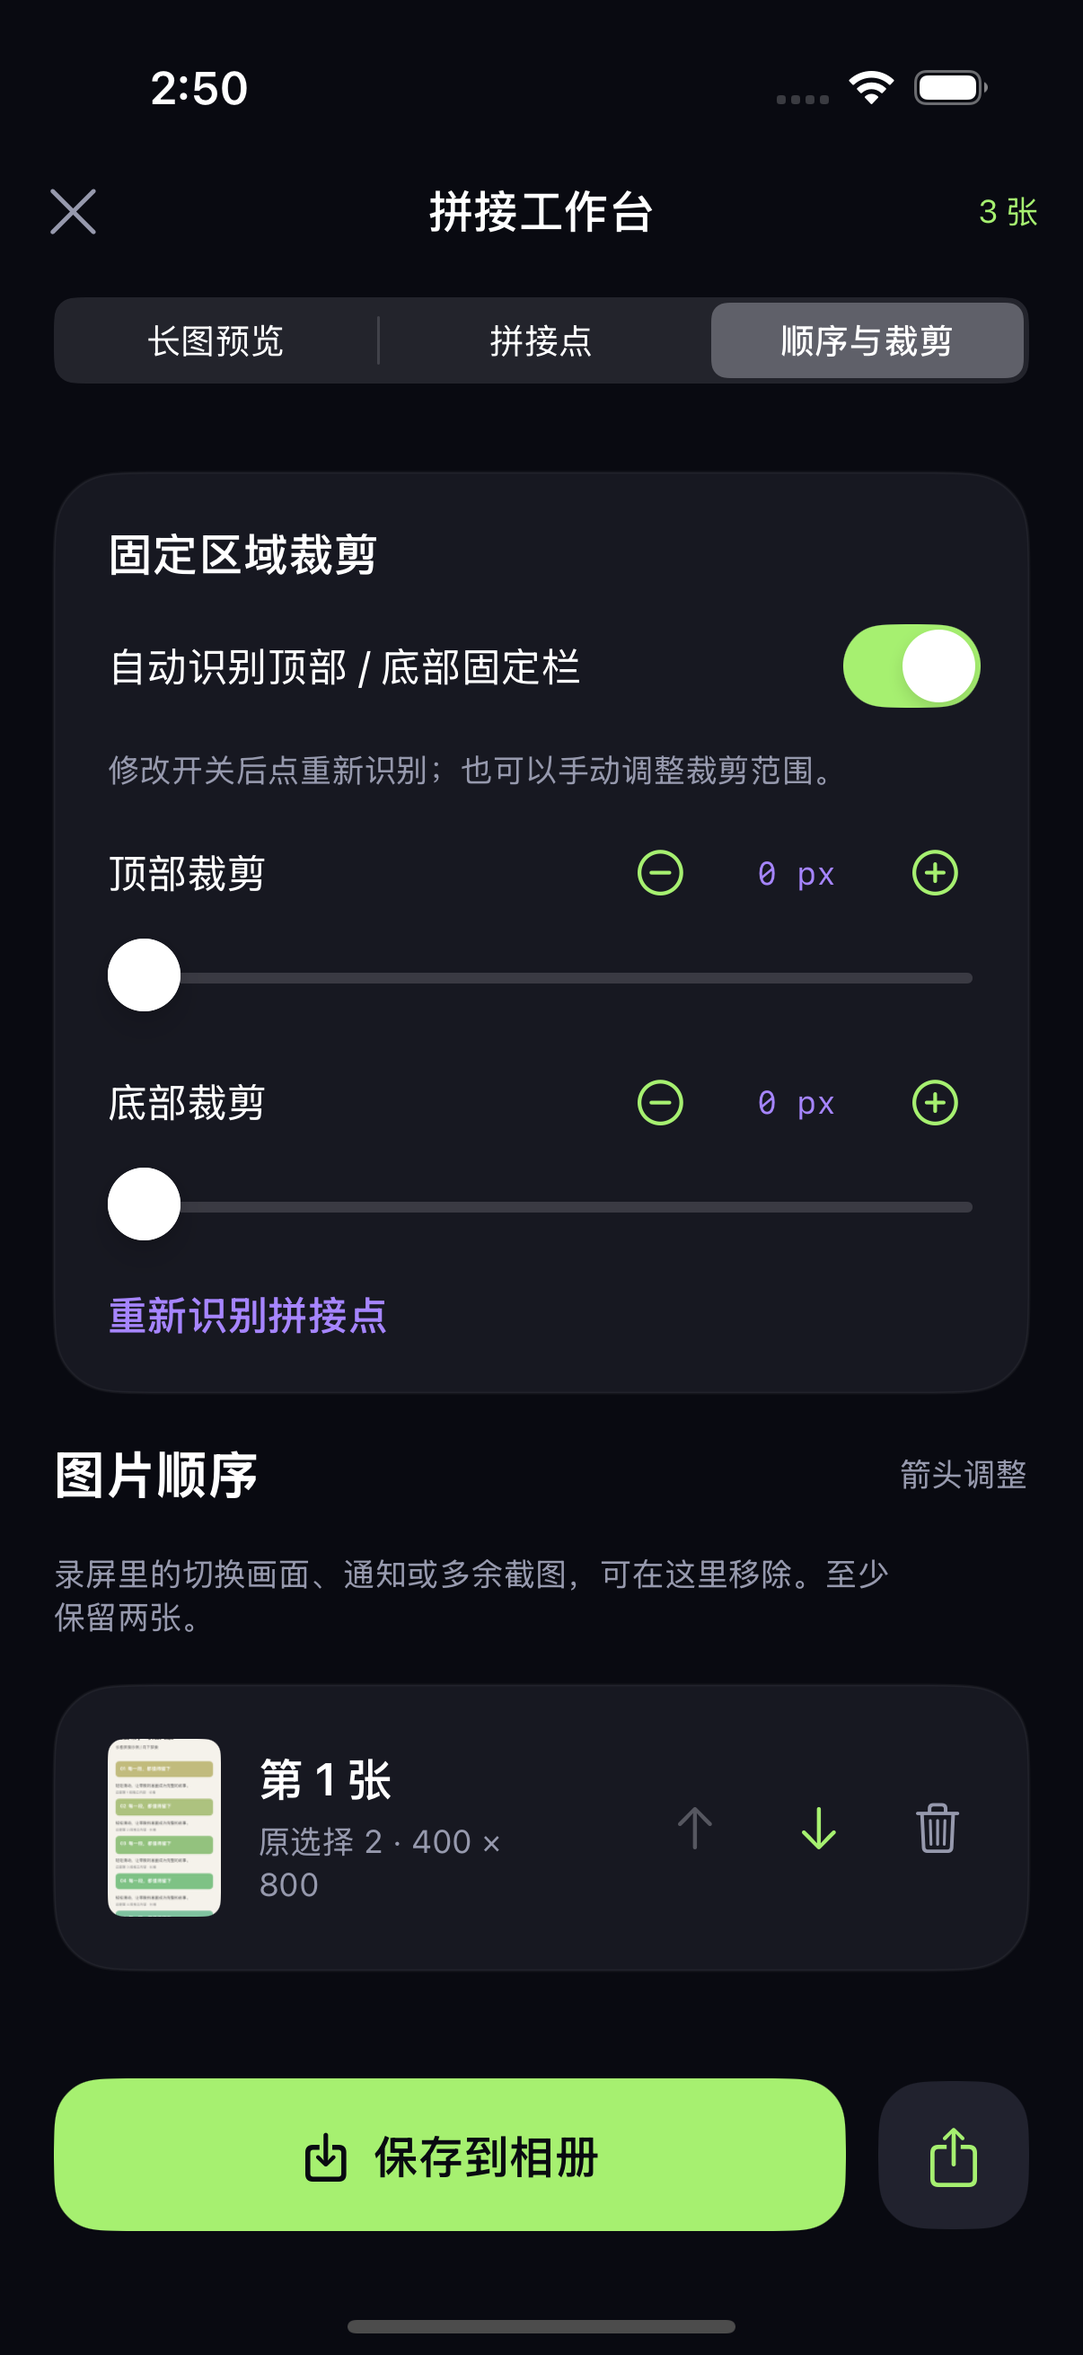
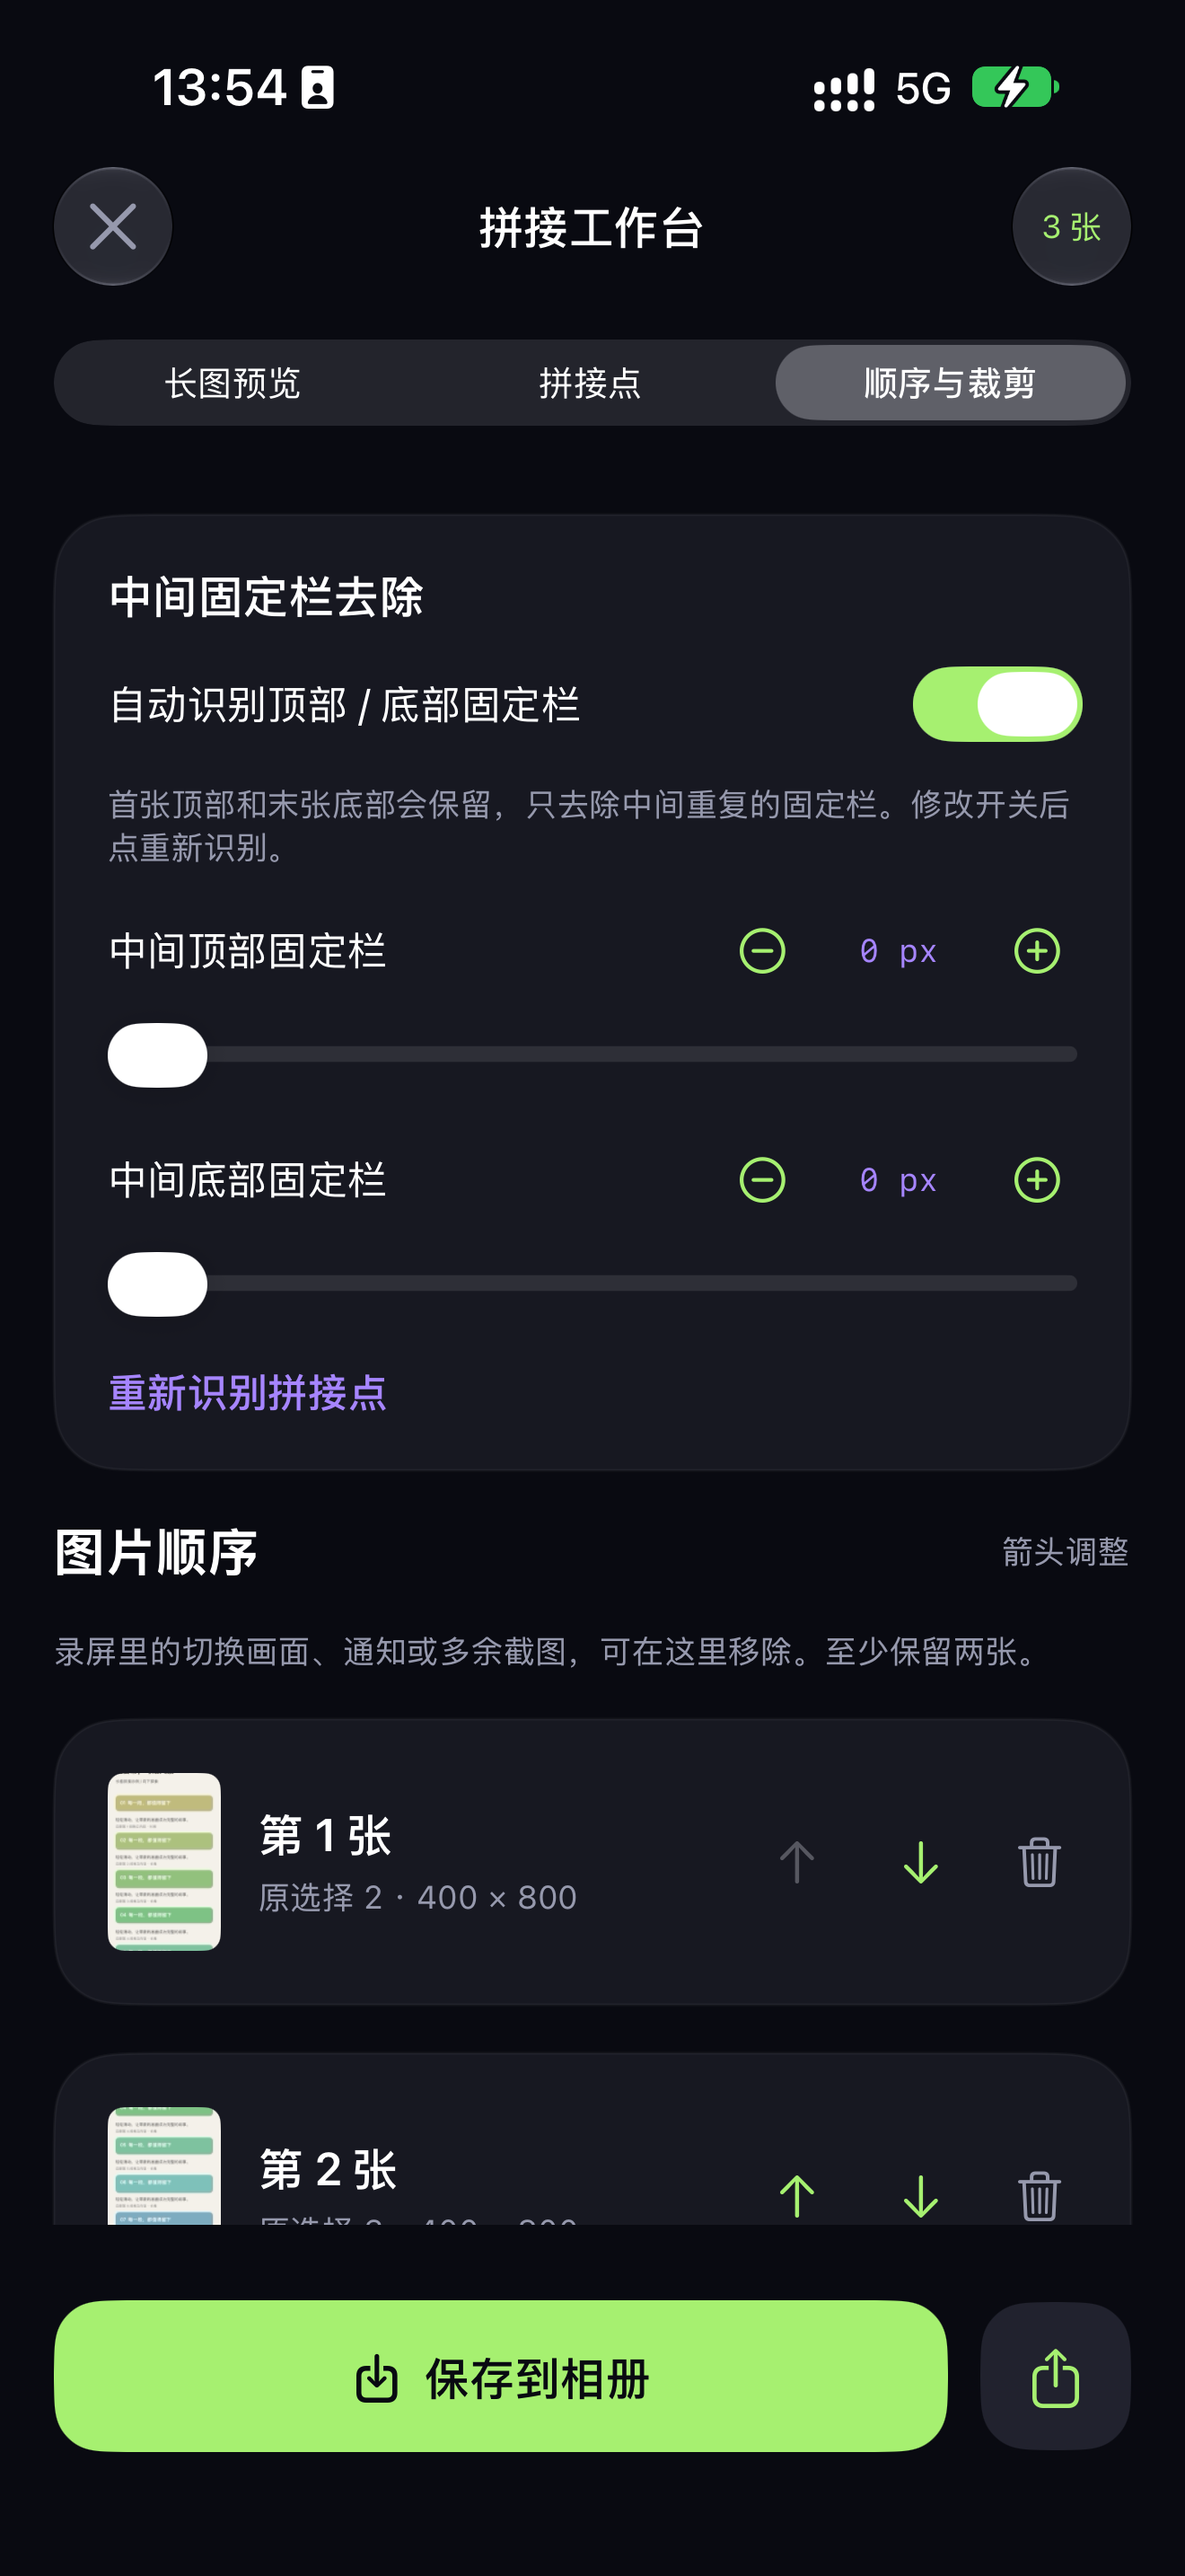
test: separate photo authorization from editor checks and record device regression results

diff --git a/Tests/UITests/LongShotUITests.swift b/Tests/UITests/LongShotUITests.swift
@@ -14,18 +14,6 @@ final class LongShotUITests: XCTestCase {
         XCTAssertTrue(app.navigationBars["拼接工作台"].waitForExistence(timeout: 30))
         XCTAssertTrue(app.staticTexts["已按连续内容调整顺序"].waitForExistence(timeout: 10))
         attach("长图预览")
-        app.buttons["saveImage"].tap()
-        let springboard = XCUIApplication(bundleIdentifier: "com.apple.springboard")
-        let permission = springboard.alerts.firstMatch
-        if permission.waitForExistence(timeout: 3) {
-            let allow = permission.buttons.matching(
-                NSPredicate(format: "label BEGINSWITH[c] 'Allow' OR label BEGINSWITH '允许'")
-            ).firstMatch
-            XCTAssertTrue(allow.exists)
-            allow.tap()
-        }
-        XCTAssertTrue(app.staticTexts["长图已保存到相册。"].waitForExistence(timeout: 15))
-        app.alerts["长卷"].buttons["好的"].tap()
         app.segmentedControls.buttons["拼接点"].tap()
         XCTAssertTrue(app.buttons["seam-0"].exists)
         app.buttons["下张顶部去重增加一个像素"].tap()
@@ -69,6 +57,28 @@ final class LongShotUITests: XCTestCase {
         XCTAssertTrue(cancel.waitForExistence(timeout: 5))
         cancel.tap()
         XCTAssertTrue(app.buttons["selectPhotos"].exists)
+    }
+
+    @MainActor
+    func testSaveDemoToPhotos() throws {
+        let app = XCUIApplication()
+        app.launch()
+        XCTAssertTrue(app.buttons["selectPhotos"].waitForExistence(timeout: 10))
+        app.swipeUp()
+        app.buttons["loadDemo"].tap()
+        XCTAssertTrue(app.navigationBars["拼接工作台"].waitForExistence(timeout: 30))
+        app.buttons["saveImage"].tap()
+        let springboard = XCUIApplication(bundleIdentifier: "com.apple.springboard")
+        let permission = springboard.alerts.firstMatch
+        if permission.waitForExistence(timeout: 3) {
+            let allow = permission.buttons.matching(
+                NSPredicate(format: "label BEGINSWITH[c] 'Allow' OR label BEGINSWITH '允许'")
+            ).firstMatch
+            XCTAssertTrue(allow.exists)
+            allow.tap()
+        }
+        XCTAssertTrue(app.staticTexts["长图已保存到相册。"].waitForExistence(timeout: 15))
+        app.alerts["长卷"].buttons["好的"].tap()
     }
 
     @MainActor
